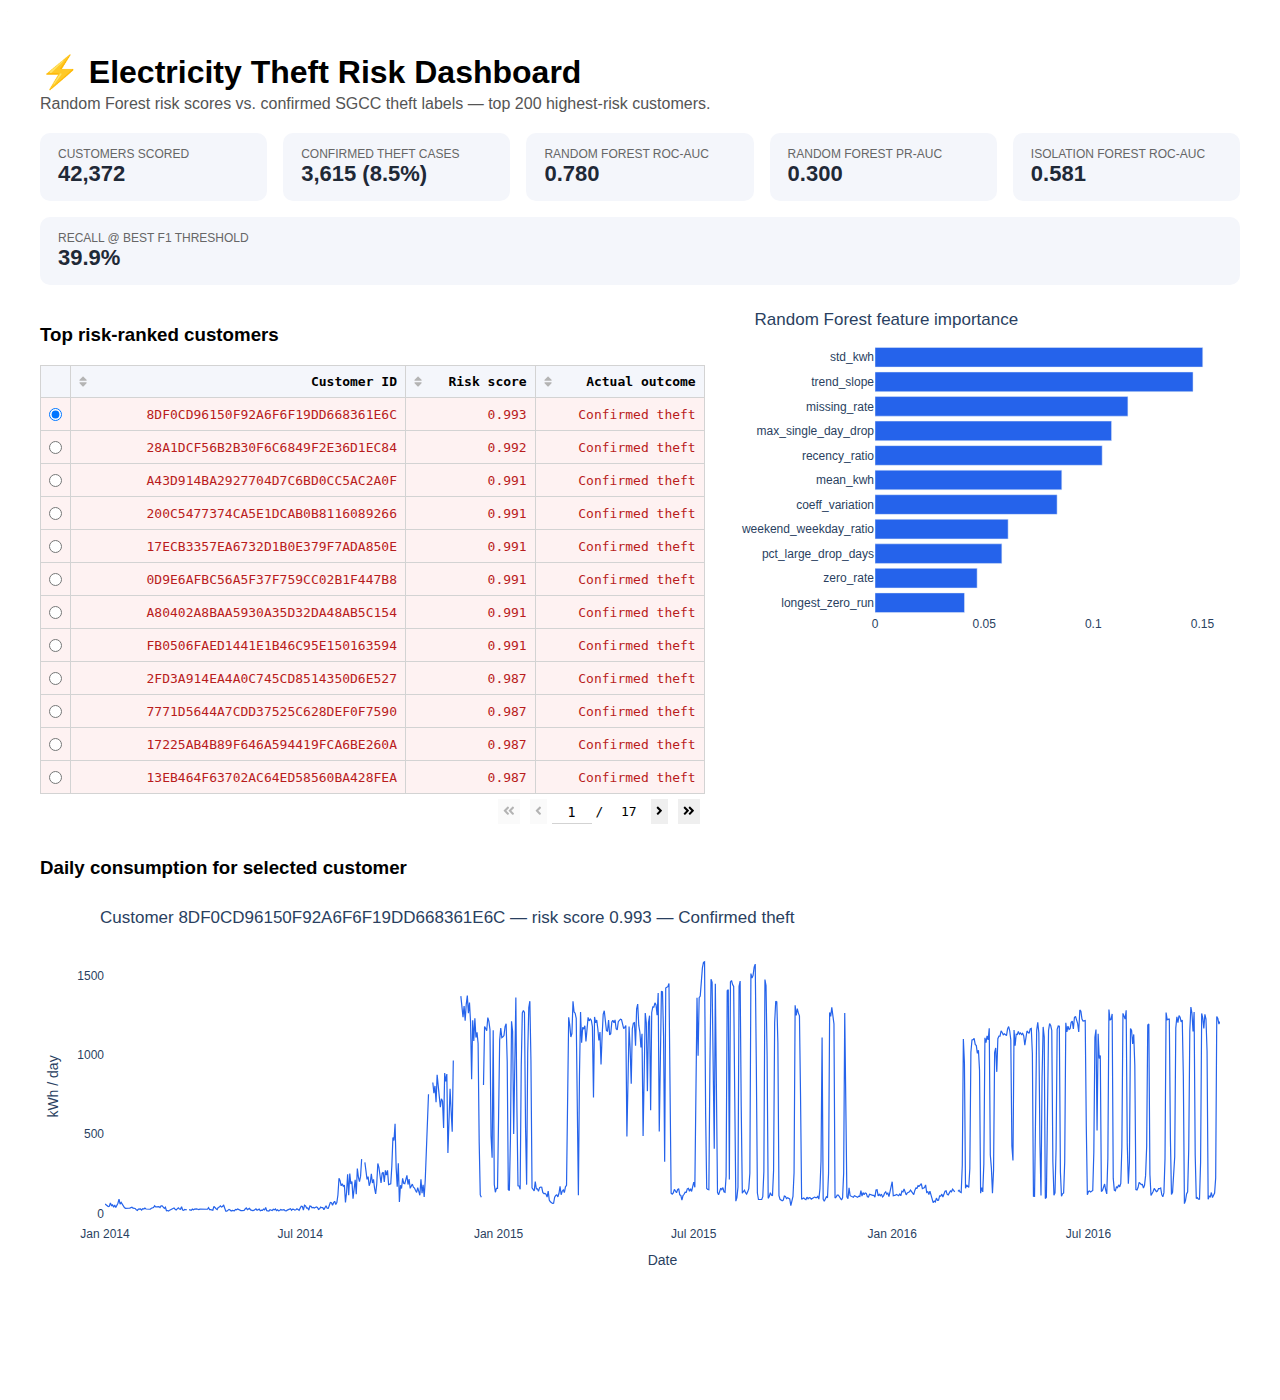
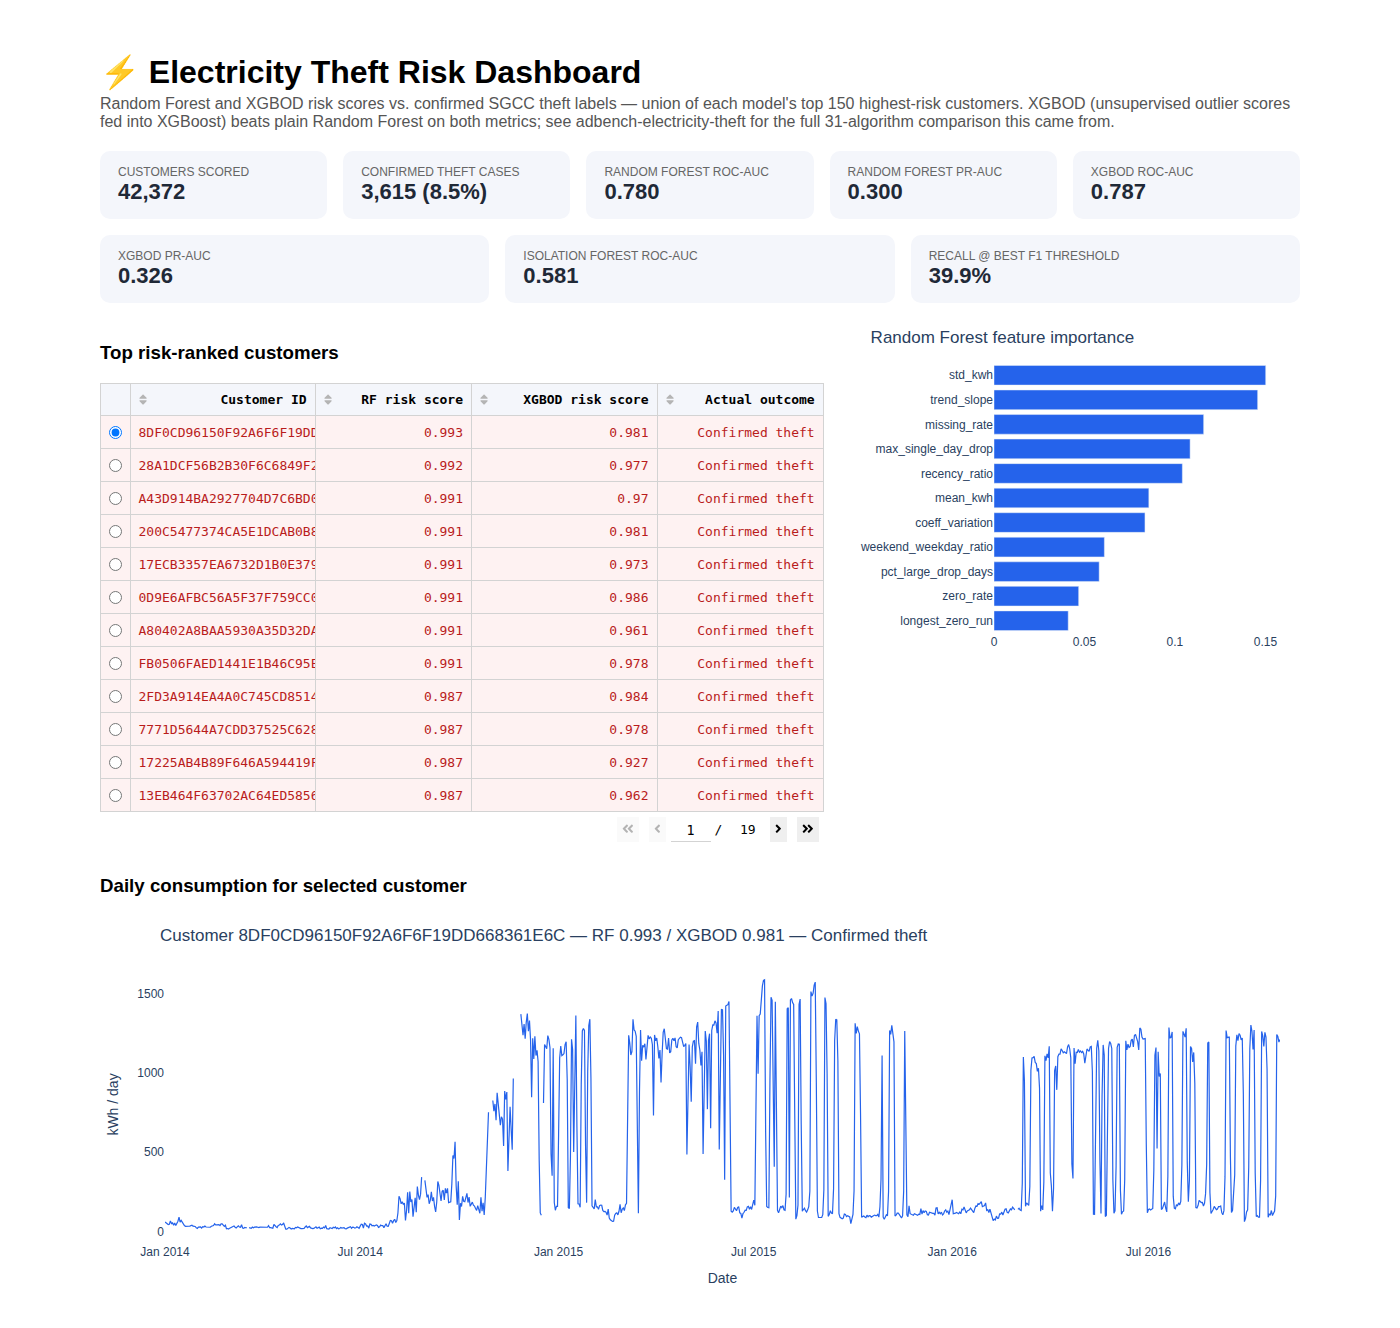
Add XGBOD as a second risk score in the dashboard
XGBOD (unsupervised Isolation Forest + Local Outlier Factor scores fed
as extra features into an XGBoost classifier) topped the 31-algorithm
comparison in adbench-electricity-theft. Re-running the same approach
here on the full 42,372-customer dataset edges out the plain Random
Forest on both ROC-AUC (0.787 vs 0.780) and PR-AUC (0.326 vs 0.300),
confirming that result wasn't just an artifact of ADBench's forced
10,000-row subsample. Both risk scores are now shown side by side in
the dashboard table and consumption chart.

Claude-Session: https://claude.ai/code/session_01X3H23tvkhXuirfK8E3D6YT

diff --git a/src/dashboard.py b/src/dashboard.py
@@ -18,9 +18,19 @@ LONG_DF = pd.read_csv(os.path.join(DATA_DIR, "consumption_long.csv"), parse_date
 with open(os.path.join(DATA_DIR, "metrics.json")) as f:
     METRICS = json.load(f)
 
-TOP_N = 200
-TOP_CUSTOMERS = SCORED.head(TOP_N).copy()
+TOP_N = 150
+# Union of each model's top-ranked customers, so a customer XGBOD flags as
+# high-risk is visible even if Random Forest ranked them lower (and vice versa).
+top_by_rf = SCORED.nlargest(TOP_N, "risk_score")
+top_by_xgbod = SCORED.nlargest(TOP_N, "xgbod_risk_score")
+TOP_CUSTOMERS = (
+    pd.concat([top_by_rf, top_by_xgbod])
+    .drop_duplicates(subset="customer_id")
+    .sort_values("risk_score", ascending=False)
+    .reset_index(drop=True)
+)
 TOP_CUSTOMERS["risk_score"] = TOP_CUSTOMERS["risk_score"].round(3)
+TOP_CUSTOMERS["xgbod_risk_score"] = TOP_CUSTOMERS["xgbod_risk_score"].round(3)
 TOP_CUSTOMERS["outcome"] = TOP_CUSTOMERS["flag"].map({1: "Confirmed theft", 0: "Normal"})
 
 app = Dash(__name__)
@@ -31,6 +41,8 @@ STAT_CARDS = [
     ("Confirmed theft cases", f"{METRICS['n_theft']:,} ({METRICS['theft_rate']:.1%})"),
     ("Random Forest ROC-AUC", f"{METRICS['random_forest']['roc_auc']:.3f}"),
     ("Random Forest PR-AUC", f"{METRICS['random_forest']['pr_auc']:.3f}"),
+    ("XGBOD ROC-AUC", f"{METRICS['xgbod']['roc_auc']:.3f}"),
+    ("XGBOD PR-AUC", f"{METRICS['xgbod']['pr_auc']:.3f}"),
     ("Isolation Forest ROC-AUC", f"{METRICS['isolation_forest']['roc_auc']:.3f}"),
     ("Recall @ best F1 threshold", f"{METRICS['random_forest']['recall_theft']:.1%}"),
 ]
@@ -55,7 +67,10 @@ app.layout = html.Div(
     children=[
         html.H1("⚡ Electricity Theft Risk Dashboard", style={"marginBottom": "4px"}),
         html.P(
-            "Random Forest risk scores vs. confirmed SGCC theft labels — top 200 highest-risk customers.",
+            "Random Forest and XGBOD risk scores vs. confirmed SGCC theft labels — "
+            f"union of each model's top {TOP_N} highest-risk customers. XGBOD (unsupervised "
+            "outlier scores fed into XGBoost) beats plain Random Forest on both metrics; "
+            "see adbench-electricity-theft for the full 31-algorithm comparison this came from.",
             style={"color": "#555", "marginTop": 0},
         ),
         html.Div(
@@ -81,22 +96,32 @@ app.layout = html.Div(
             style={"display": "flex", "gap": "24px", "flexWrap": "wrap"},
             children=[
                 html.Div(
-                    style={"flex": "1.3", "minWidth": "480px"},
+                    style={"flex": "1.6", "minWidth": "620px"},
                     children=[
                         html.H3("Top risk-ranked customers"),
                         dash_table.DataTable(
                             id="risk-table",
                             columns=[
                                 {"name": "Customer ID", "id": "customer_id"},
-                                {"name": "Risk score", "id": "risk_score"},
+                                {"name": "RF risk score", "id": "risk_score"},
+                                {"name": "XGBOD risk score", "id": "xgbod_risk_score"},
                                 {"name": "Actual outcome", "id": "outcome"},
                             ],
-                            data=TOP_CUSTOMERS[["customer_id", "risk_score", "outcome"]].to_dict("records"),
+                            data=TOP_CUSTOMERS[
+                                ["customer_id", "risk_score", "xgbod_risk_score", "outcome"]
+                            ].to_dict("records"),
                             row_selectable="single",
                             selected_rows=[0],
                             page_size=12,
                             sort_action="native",
+                            style_table={"overflowX": "auto"},
                             style_cell={"padding": "8px", "fontSize": "13px"},
+                            style_cell_conditional=[
+                                {"if": {"column_id": "customer_id"}, "minWidth": "150px", "maxWidth": "150px"},
+                                {"if": {"column_id": "risk_score"}, "minWidth": "100px"},
+                                {"if": {"column_id": "xgbod_risk_score"}, "minWidth": "110px"},
+                                {"if": {"column_id": "outcome"}, "minWidth": "130px"},
+                            ],
                             style_header={"fontWeight": "700", "background": "#f4f6fb"},
                             style_data_conditional=[
                                 {
@@ -142,7 +167,10 @@ def update_chart(selected_rows):
     )
     outcome = "Confirmed theft" if row["flag"] == 1 else "Normal"
     fig.update_layout(
-        title=f"Customer {customer_id} — risk score {row['risk_score']:.3f} — {outcome}",
+        title=(
+            f"Customer {customer_id} — RF {row['risk_score']:.3f} / "
+            f"XGBOD {row['xgbod_risk_score']:.3f} — {outcome}"
+        ),
         margin=dict(l=40, r=20, t=50, b=30),
         height=380,
         plot_bgcolor="white",

diff --git a/src/theft_detection.py b/src/theft_detection.py
@@ -18,6 +18,24 @@ from sklearn.metrics import (
     roc_auc_score,
 )
 from sklearn.model_selection import train_test_split
+from sklearn.neighbors import LocalOutlierFactor
+from xgboost import XGBClassifier
+
+def _unsupervised_score_features(X_train: pd.DataFrame, X_all: pd.DataFrame, contamination: float) -> pd.DataFrame:
+    """Fit unsupervised outlier detectors on the training rows only, then score every
+    customer with each. These scores become extra input features for XGBOD below --
+    the ADBench benchmark run (see adbench-electricity-theft) found this combination
+    of unsupervised outlier scores + gradient boosting beats a plain supervised model."""
+    iso = IsolationForest(n_estimators=300, contamination=contamination, random_state=42, n_jobs=-1)
+    iso.fit(X_train)
+    iso_scores = -iso.score_samples(X_all)
+
+    lof = LocalOutlierFactor(n_neighbors=20, novelty=True, contamination=contamination, n_jobs=-1)
+    lof.fit(X_train)
+    lof_scores = -lof.score_samples(X_all)
+
+    return pd.DataFrame({"iso_outlier_score": iso_scores, "lof_outlier_score": lof_scores}, index=X_all.index)
+
 
 DATA_DIR = os.path.join(os.path.dirname(__file__), "..", "data")
 FEATURES_IN = os.path.join(DATA_DIR, "customer_features.csv")
@@ -80,6 +98,29 @@ def run():
     iso_roc_auc = roc_auc_score(y_test, iso_scores_test)
     iso_pr_auc = average_precision_score(y_test, iso_scores_test)
 
+    # --- XGBOD-style: unsupervised outlier scores as extra features for XGBoost ---
+    # (Zhao & Hryniewicki 2018; the winning approach in the ADBench benchmark run
+    # against this same dataset -- see adbench-electricity-theft.)
+    unsup_scores_all = _unsupervised_score_features(X_train, X, contamination)
+    X_train_aug = pd.concat([X_train, unsup_scores_all.loc[X_train.index]], axis=1)
+    X_test_aug = pd.concat([X_test, unsup_scores_all.loc[X_test.index]], axis=1)
+    X_all_aug = pd.concat([X, unsup_scores_all], axis=1)
+
+    scale_pos_weight = (y_train == 0).sum() / (y_train == 1).sum()
+    xgbod = XGBClassifier(
+        n_estimators=300,
+        max_depth=4,
+        learning_rate=0.1,
+        scale_pos_weight=scale_pos_weight,
+        eval_metric="logloss",
+        random_state=42,
+        n_jobs=-1,
+    )
+    xgbod.fit(X_train_aug, y_train)
+    xgbod_scores_test = xgbod.predict_proba(X_test_aug)[:, 1]
+    xgbod_roc_auc = roc_auc_score(y_test, xgbod_scores_test)
+    xgbod_pr_auc = average_precision_score(y_test, xgbod_scores_test)
+
     metrics = {
         "n_customers": int(len(df)),
         "n_theft": int(y.sum()),
@@ -97,6 +138,10 @@ def run():
             "roc_auc": float(iso_roc_auc),
             "pr_auc": float(iso_pr_auc),
         },
+        "xgbod": {
+            "roc_auc": float(xgbod_roc_auc),
+            "pr_auc": float(xgbod_pr_auc),
+        },
         "feature_importance": dict(
             sorted(
                 zip(FEATURE_COLS, clf.feature_importances_.tolist()),
@@ -110,16 +155,19 @@ def run():
         json.dump(metrics, f, indent=2)
     print(json.dumps(metrics, indent=2))
 
-    # Score every customer with the trained RF for the dashboard, keeping
-    # track of which rows were held out of training (test set).
+    # Score every customer with both models for the dashboard, keeping track
+    # of which rows were held out of training (test set).
     all_scores = clf.predict_proba(X)[:, 1]
+    xgbod_all_scores = xgbod.predict_proba(X_all_aug)[:, 1]
     scored = df[["customer_id", "flag"] + FEATURE_COLS].copy()
     scored["risk_score"] = all_scores
+    scored["xgbod_risk_score"] = xgbod_all_scores
     scored["in_test_set"] = df.index.isin(idx_test)
     scored = scored.sort_values("risk_score", ascending=False).reset_index(drop=True)
     scored.to_csv(RESULTS_OUT, index=False)
 
     joblib.dump(clf, MODEL_OUT)
+    joblib.dump(xgbod, os.path.join(DATA_DIR, "xgbod_model.joblib"))
     print(f"\nSaved scored customers to {RESULTS_OUT}")
     print(f"Saved metrics to {METRICS_OUT}")
     return metrics

diff --git a/README.md b/README.md
@@ -9,24 +9,28 @@ Detecting electricity theft using the SGCC labeled smart-meter dataset — a dir
 1. **Data**: [SGCC Electricity Theft Detection dataset](https://github.com/henryRDlab/ElectricityTheftDetection) (State Grid Corporation of China) — daily consumption for 42,372 customers from 2014-01-01 to 2016-10-31, each labeled `0` (normal) or `1` (confirmed theft). ~8.5% of customers are labeled theft.
 2. **Feature engineering**: per-customer features built from each ~1,035-day consumption history — mean/std/coefficient of variation, missing-data rate, zero-reading rate and longest zero streak, largest single-day drop, % of days with a large drop, weekend/weekday ratio, consumption trend slope, and a first-half-vs-second-half recency ratio.
 3. **Detection**: train a **Random Forest classifier** on the labels (supervised) and an **Isolation Forest** (unsupervised, never sees the labels) on the same features, then score both against the held-out ground truth.
-4. **Visualization**: a Dash dashboard ranking customers by theft risk score, with a consumption chart per customer so a reviewer can see the pattern behind the score (e.g. a meter that goes flat or erratic mid-history).
+4. **XGBOD**: fit unsupervised Isolation Forest and Local Outlier Factor scores as extra features, then train an **XGBoost classifier** on the original features plus those outlier scores — the same approach that topped the 31-algorithm comparison in [adbench-electricity-theft](https://github.com/JM-Bunagan-22/adbench-electricity-theft).
+5. **Visualization**: a Dash dashboard ranking customers by theft risk score, with a consumption chart per customer so a reviewer can see the pattern behind the score (e.g. a meter that goes flat or erratic mid-history). Shows both the Random Forest and XGBOD risk scores side by side.
 
 ## Result
 On a held-out 25% test set (10,593 customers, 8.5% theft rate):
 
 | Model | ROC-AUC | PR-AUC | Precision (theft) | Recall (theft) | F1 (theft) |
 |---|---|---|---|---|---|
-| Random Forest (supervised) | **0.780** | **0.300** | 0.313 | 0.399 | 0.351 |
+| **XGBOD** (outlier scores + XGBoost) | **0.787** | **0.326** | — | — | — |
+| Random Forest (supervised) | 0.780 | 0.300 | 0.313 | 0.399 | 0.351 |
 | Isolation Forest (unsupervised) | 0.581 | 0.109 | — | — | — |
 
 The supervised model clearly outperforms the unsupervised baseline (ROC-AUC 0.78 vs. 0.58, PR-AUC nearly 3x higher) — confirming the tradeoff the first project could only speculate about: unsupervised anomaly scores are a reasonable first pass when no labels exist, but once any confirmed fraud cases are available, even a modest supervised model captures far more signal. The most predictive features were `std_kwh`, `trend_slope`, and `missing_rate` — theft cases tend to show unstable consumption, a declining trend (tampering that under-reports over time), and gaps in the meter's readings, more than they show outright zeros.
 
 At the best F1 threshold, the Random Forest catches **40% of confirmed theft cases** while keeping **31% precision** — meaning roughly 1 in 3 flagged accounts is a real theft case, a workable hit rate for a human-reviewed shortlist out of 42k customers.
 
+**XGBOD update**: [adbench-electricity-theft](https://github.com/JM-Bunagan-22/adbench-electricity-theft) benchmarked 31 anomaly detection algorithms against this same dataset and found XGBOD (feeding unsupervised Isolation Forest / Local Outlier Factor scores into an XGBoost classifier) came out on top — but that comparison ran on ADBench's forced 10,000-row subsample. Re-running the same idea here on the full 42,372 customers pushes it slightly ahead of the plain Random Forest on both metrics (0.787 ROC-AUC / 0.326 PR-AUC vs. 0.780 / 0.300), confirming the result wasn't an artifact of the smaller sample. Both scores are now shown side by side in the dashboard.
+
 ![Dashboard screenshot](assets/dashboard.png)
 
 ## Stack
-Python · pandas · scikit-learn · Dash · Plotly
+Python · pandas · scikit-learn · XGBoost · Dash · Plotly
 
 ## Project Structure
 ```
@@ -35,7 +39,7 @@ electricity-theft-detection/
 ├── src/
 │   ├── data_loader.py       # download & join the multi-part SGCC archive
 │   ├── features.py          # per-customer feature engineering
-│   ├── theft_detection.py   # Random Forest vs. Isolation Forest, metrics
+│   ├── theft_detection.py   # Random Forest vs. Isolation Forest vs. XGBOD, metrics
 │   └── dashboard.py         # Dash app
 ├── notebooks/                # exploratory analysis
 ├── assets/                   # dashboard screenshot for README
@@ -58,7 +62,7 @@ python src/dashboard.py         # launches Dash app at localhost:8050
 ```
 
 ## Next Steps
-- [ ] Try gradient-boosted trees (XGBoost/LightGBM) against the Random Forest baseline
 - [ ] Add SHAP explanations per flagged customer for the dashboard, not just global feature importance
 - [ ] Engineer sequence-aware features (e.g. an LSTM/CNN over the raw daily series, as in the original SGCC paper) to see how much the hand-built features are leaving on the table
 - [ ] Calibrate the risk threshold against a cost model (investigation cost vs. recovered revenue) instead of optimizing F1
+- [ ] Try LightGBM/CatBoost in place of XGBoost in the XGBOD feature-stacking approach, since both beat XGBoost in the adbench-electricity-theft benchmark
